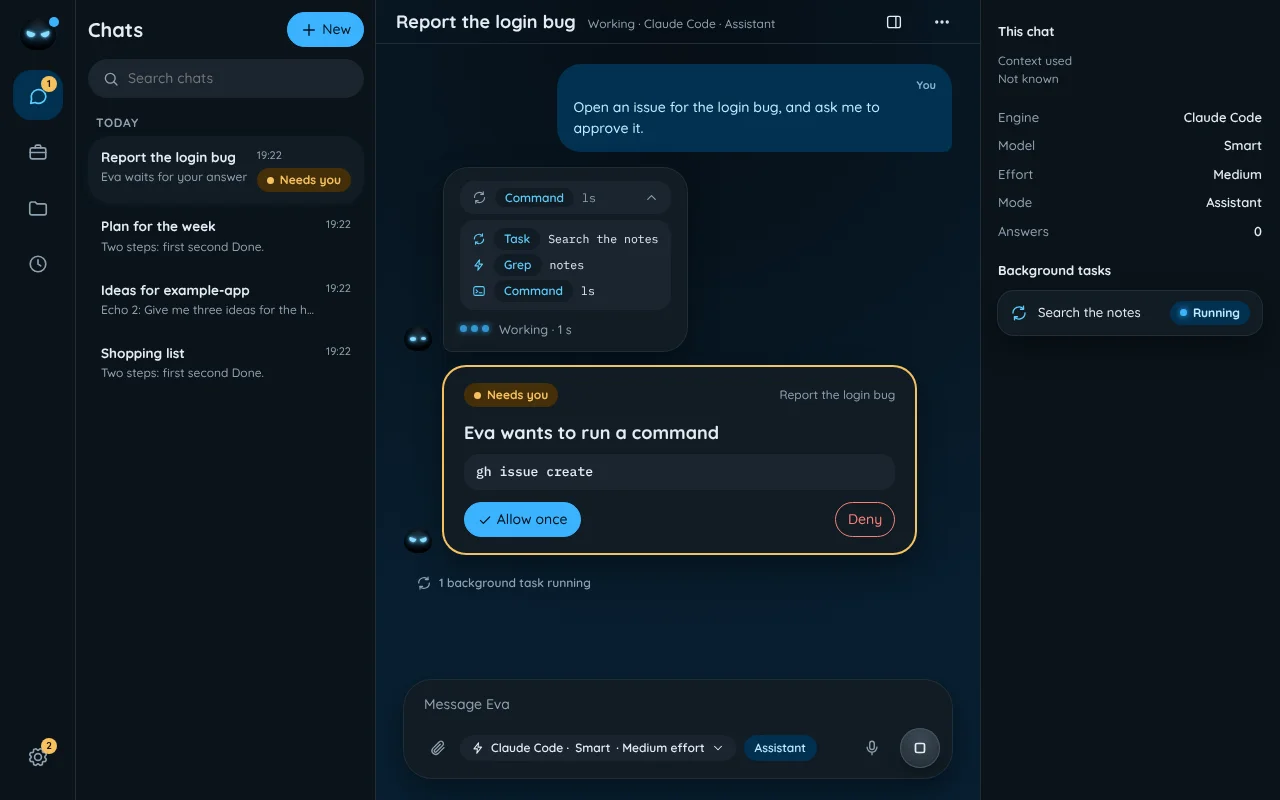
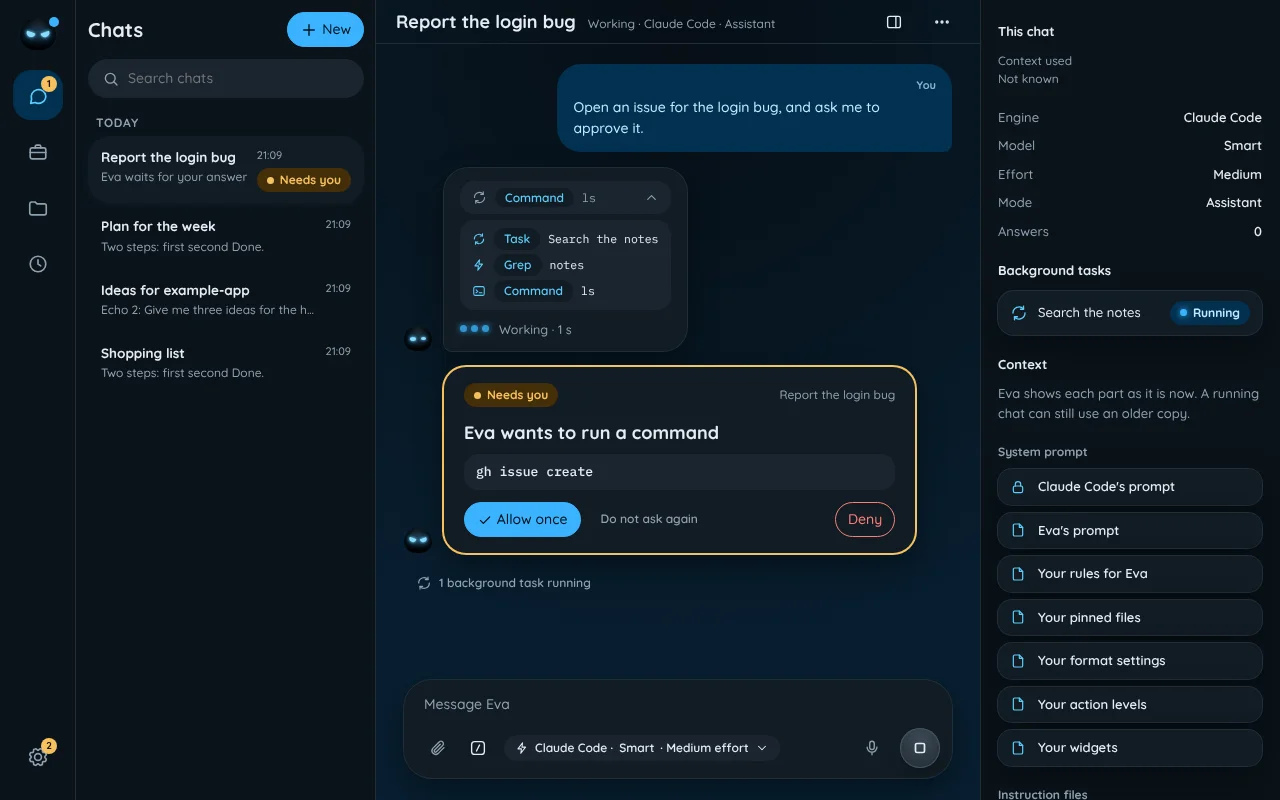
docs: describe the levels of outward actions (#914)
The guide still said that Eva always asks before an action that reaches
other people, and that bypass mode runs every action with no question.
Both are wrong now. The reference describes each kind of action, the
three levels, where they apply and the "Do not ask again" button. It
says that the levels are a preference that lives in the vault, so Eva
asks before an agent changes them. The design guide shows the third
button, with new captures of the permission card.

Claude-Session: https://claude.ai/code/session_011Ysmyf6qxHhKb4kdaM9pKe

diff --git a/docs/guide/reference.md b/docs/guide/reference.md
@@ -62,55 +62,57 @@ Eva keeps her settings in two places, and her tokens in a third:
 - **Your settings live in your vault,** in `.eva/settings/settings.json`, so every computer with the vault uses the same ones.
 - **This computer's settings live in Eva's home folder** (`~/.config/eva-<name>` on Linux, `%APPDATA%\eva-<name>` on Windows, where `<name>` is the name of this Eva), in `config.json`.
   - **The settings that decide who may open Eva, and what an agent may do, are always computer settings.** The table marks them "(security)". Eva's AI agent edits the vault as part of its work, so these never live there.
+  - **The levels of the actions that reach other people are your preference, so they live in the vault.** An agent can edit the vault. So Eva asks you before an agent changes these levels. See [Actions that reach other people](#actions-that-reach-other-people).
 - **Tokens live in `secrets.json`** in Eva's home folder, never in the vault: `githubToken`, `telegramBotToken`, `claudeOauthToken`, `localApiToken`, `googleOauthClientId` and `googleOauthClientSecret`. Eva also keeps there the key of her web push notifications, which she makes by herself.
 
 In the vault:
 
-| Setting                        | Default        | What it does                                                                                                                                         |
-| ------------------------------ | -------------- | ---------------------------------------------------------------------------------------------------------------------------------------------------- |
-| `timeZone`                     | Asked at setup | The time zone of the reminders, and of the time in each message.                                                                                     |
-| `language`                     | Asked at setup | The language of Eva's answers, such as `Spanish`.                                                                                                    |
-| `units`                        | From setup     | `metric` or `imperial`. `null`: not set.                                                                                                             |
-| `clock`                        | From setup     | `24h` or `12h`: the form of each time that Eva writes and shows. `null`: 24-hour.                                                                    |
-| `weekStart`                    | From setup     | The first day of the week, `monday` to `sunday`. `null`: Monday.                                                                                     |
-| `sync.pullIntervalMinutes`     | `5`            | Minutes between two fetches of other computers' notes. `null`: only before each chat turn.                                                           |
-| `sync.sweepSeconds`            | `60`           | Seconds between two saves of changed notes.                                                                                                          |
-| `updates.frequency`            | `daily`        | How often Eva looks for a new version: see [Updates](#updates).                                                                                      |
-| `updates.install`              | `minor`        | What Eva installs by herself: see [Updates](#updates).                                                                                               |
-| `widgets.checkIntervalMinutes` | `30`           | Minutes between two update checks of your own widgets, 5 at least. Other widgets: once a day.                                                        |
-| `engines.default`              | `claude-code`  | The engine of a new chat: `claude-code` or `pi`.                                                                                                     |
-| `engines.defaultModel`         | `opus`         | The model of a new chat: `opus` (Smart), `sonnet` (Balanced) or `haiku` (Fast).                                                                      |
-| `engines.defaultEffort`        | `medium`       | The effort of a new chat: `low`, `medium`, `high`, `xhigh` or `max`.                                                                                 |
-| `engines.pi.models.<model>`    | `null`         | The pi model of each of the 3 tiers, such as `openai/gpt-5`. `null`: pi's own default. In Settings, the field suggests the models of your pi logins. |
-| `google.email`                 | `null`         | The Google account. The Google login sets it.                                                                                                        |
-| `voice.language`               | `null`         | The language of voice notes, such as `es`. `null`: whisper finds it.                                                                                 |
+| Setting                        | Default        | What it does                                                                                                                                                  |
+| ------------------------------ | -------------- | ------------------------------------------------------------------------------------------------------------------------------------------------------------- |
+| `timeZone`                     | Asked at setup | The time zone of the reminders, and of the time in each message.                                                                                              |
+| `language`                     | Asked at setup | The language of Eva's answers, such as `Spanish`.                                                                                                             |
+| `units`                        | From setup     | `metric` or `imperial`. `null`: not set.                                                                                                                      |
+| `clock`                        | From setup     | `24h` or `12h`: the form of each time that Eva writes and shows. `null`: 24-hour.                                                                             |
+| `weekStart`                    | From setup     | The first day of the week, `monday` to `sunday`. `null`: Monday.                                                                                              |
+| `sync.pullIntervalMinutes`     | `5`            | Minutes between two fetches of other computers' notes. `null`: only before each chat turn.                                                                    |
+| `sync.sweepSeconds`            | `60`           | Seconds between two saves of changed notes.                                                                                                                   |
+| `updates.frequency`            | `daily`        | How often Eva looks for a new version: see [Updates](#updates).                                                                                               |
+| `updates.install`              | `minor`        | What Eva installs by herself: see [Updates](#updates).                                                                                                        |
+| `widgets.checkIntervalMinutes` | `30`           | Minutes between two update checks of your own widgets, 5 at least. Other widgets: once a day.                                                                 |
+| `engines.default`              | `claude-code`  | The engine of a new chat: `claude-code` or `pi`.                                                                                                              |
+| `engines.defaultModel`         | `opus`         | The model of a new chat: `opus` (Smart), `sonnet` (Balanced) or `haiku` (Fast).                                                                               |
+| `engines.defaultEffort`        | `medium`       | The effort of a new chat: `low`, `medium`, `high`, `xhigh` or `max`.                                                                                          |
+| `engines.pi.models.<model>`    | `null`         | The pi model of each of the 3 tiers, such as `openai/gpt-5`. `null`: pi's own default. In Settings, the field suggests the models of your pi logins.          |
+| `outwardActions.<category>`    | `ask`          | The level of one kind of action that reaches other people: `allow`, `ask` or `deny`. See [Actions that reach other people](#actions-that-reach-other-people). |
+| `google.email`                 | `null`         | The Google account. The Google login sets it.                                                                                                                 |
+| `voice.language`               | `null`         | The language of voice notes, such as `es`. `null`: whisper finds it.                                                                                          |
 
 On this computer:
 
-| Setting                                              | Default                                    | What it does                                                                                                                                                                                                                                     |
-| ---------------------------------------------------- | ------------------------------------------ | ------------------------------------------------------------------------------------------------------------------------------------------------------------------------------------------------------------------------------------------------ |
-| `vaultPath`                                          | `vault` in Eva's home folder               | The vault folder.                                                                                                                                                                                                                                |
-| `machineName`                                        | The computer's name                        | This computer's name in `.eva/hub.json`.                                                                                                                                                                                                         |
-| `port`                                               | `7420`                                     | The port of the web page on this computer: the number at the end of its local address.                                                                                                                                                           |
-| `projectRoots`                                       | `[]`                                       | More folders of projects, beside `Projects/` in the vault.                                                                                                                                                                                       |
-| `sync.enabled`                                       | `true`                                     | `false` stops the automatic vault sync on this computer, and the status says so. "Sync now" still works.                                                                                                                                         |
-| `engines.claudeCode.executable`                      | `null`                                     | The program that starts Claude Code. `null`: `claude`.                                                                                                                                                                                           |
-| `engines.pi.executable`                              | `null`                                     | The program that starts pi. `null`: `pi`.                                                                                                                                                                                                        |
-| `engines.claudeCode.permissionMode` (security)       | `auto`                                     | How a Claude Code chat asks before an action. `auto`: Claude Code asks only about risky actions. `bypassPermissions`: every action runs with no question, Eva's own approvals too. A repository that Eva does not trust always uses `auto`.      |
-| `telegram.allowedChatId`, `telegram.allowedUserId`   | Set when you pair the chat                 | The Telegram chat, and the person in it who may act.                                                                                                                                                                                             |
-| `git.name`, `git.email`                              | `null`                                     | This Eva's commit name and email. `null`: the GitHub account's, then your git settings.                                                                                                                                                          |
-| `trust.trustedRepositoryOwners` (security)           | `[]`                                       | More GitHub owners whose repositories Eva trusts at once. Their own agent settings then apply. Eva trusts her own GitHub login without it.                                                                                                       |
-| `google.services` (security)                         | `calendar`, `drive`, `contacts`, `tasks`   | The Google services that Eva may use. `gmail` is the fifth choice. Tick them on the Google card.                                                                                                                                                 |
-| `google.access.<service>` (security)                 | `readonly`                                 | The access level of each service. Calendar, Drive and Contacts take `readonly` or `full`. Tasks also takes `manage`, which cannot delete. Gmail takes `readonly`, `organize`, `drafts`, `send` or `full`. Log in to Google again after a change. |
-| `voice.modelPath`                                    | `voice/ggml-base.bin` in Eva's home folder | The whisper.cpp model. Voice notes stay off without it.                                                                                                                                                                                          |
-| `voice.vadModelPath`                                 | `null`                                     | A whisper.cpp model that finds the silence, so that whisper skips it.                                                                                                                                                                            |
-| `voice.whisperExecutable`                            | `whisper-cli`                              | The whisper.cpp program.                                                                                                                                                                                                                         |
-| `voice.ffmpegExecutable`                             | `ffmpeg`                                   | The ffmpeg program.                                                                                                                                                                                                                              |
-| `remoteAccess.tailscaleServe`                        | `true`                                     | Publishes the web page to your Tailscale devices at start.                                                                                                                                                                                       |
-| `remoteAccess.allowedTailscaleIdentities` (security) | `[]`                                       | The Tailscale accounts that may ask for a device login. `[]`: only the owner of this computer.                                                                                                                                                   |
-| `remoteAccess.hostNames`                             | `[]`                                       | More host names that reach the web page, beside `127.0.0.1` and the Tailscale name.                                                                                                                                                              |
+| Setting                                              | Default                                    | What it does                                                                                                                                                                                                                                                                                                                             |
+| ---------------------------------------------------- | ------------------------------------------ | ---------------------------------------------------------------------------------------------------------------------------------------------------------------------------------------------------------------------------------------------------------------------------------------------------------------------------------------- |
+| `vaultPath`                                          | `vault` in Eva's home folder               | The vault folder.                                                                                                                                                                                                                                                                                                                        |
+| `machineName`                                        | The computer's name                        | This computer's name in `.eva/hub.json`.                                                                                                                                                                                                                                                                                                 |
+| `port`                                               | `7420`                                     | The port of the web page on this computer: the number at the end of its local address.                                                                                                                                                                                                                                                   |
+| `projectRoots`                                       | `[]`                                       | More folders of projects, beside `Projects/` in the vault.                                                                                                                                                                                                                                                                               |
+| `sync.enabled`                                       | `true`                                     | `false` stops the automatic vault sync on this computer, and the status says so. "Sync now" still works.                                                                                                                                                                                                                                 |
+| `engines.claudeCode.executable`                      | `null`                                     | The program that starts Claude Code. `null`: `claude`.                                                                                                                                                                                                                                                                                   |
+| `engines.pi.executable`                              | `null`                                     | The program that starts pi. `null`: `pi`.                                                                                                                                                                                                                                                                                                |
+| `engines.claudeCode.permissionMode` (security)       | `auto`                                     | How a Claude Code chat asks before an action. `auto`: Claude Code asks only about risky actions. `bypassPermissions`: Claude Code skips its own checks, so most actions run with no question. The levels of the actions that reach other people still apply in Assistant chats. A repository that Eva does not trust always uses `auto`. |
+| `telegram.allowedChatId`, `telegram.allowedUserId`   | Set when you pair the chat                 | The Telegram chat, and the person in it who may act.                                                                                                                                                                                                                                                                                     |
+| `git.name`, `git.email`                              | `null`                                     | This Eva's commit name and email. `null`: the GitHub account's, then your git settings.                                                                                                                                                                                                                                                  |
+| `trust.trustedRepositoryOwners` (security)           | `[]`                                       | More GitHub owners whose repositories Eva trusts at once. Their own agent settings then apply. Eva trusts her own GitHub login without it.                                                                                                                                                                                               |
+| `google.services` (security)                         | `calendar`, `drive`, `contacts`, `tasks`   | The Google services that Eva may use. `gmail` is the fifth choice. Tick them on the Google card.                                                                                                                                                                                                                                         |
+| `google.access.<service>` (security)                 | `readonly`                                 | The access level of each service. Calendar, Drive and Contacts take `readonly` or `full`. Tasks also takes `manage`, which cannot delete. Gmail takes `readonly`, `organize`, `drafts`, `send` or `full`. Log in to Google again after a change.                                                                                         |
+| `voice.modelPath`                                    | `voice/ggml-base.bin` in Eva's home folder | The whisper.cpp model. Voice notes stay off without it.                                                                                                                                                                                                                                                                                  |
+| `voice.vadModelPath`                                 | `null`                                     | A whisper.cpp model that finds the silence, so that whisper skips it.                                                                                                                                                                                                                                                                    |
+| `voice.whisperExecutable`                            | `whisper-cli`                              | The whisper.cpp program.                                                                                                                                                                                                                                                                                                                 |
+| `voice.ffmpegExecutable`                             | `ffmpeg`                                   | The ffmpeg program.                                                                                                                                                                                                                                                                                                                      |
+| `remoteAccess.tailscaleServe`                        | `true`                                     | Publishes the web page to your Tailscale devices at start.                                                                                                                                                                                                                                                                               |
+| `remoteAccess.allowedTailscaleIdentities` (security) | `[]`                                       | The Tailscale accounts that may ask for a device login. `[]`: only the owner of this computer.                                                                                                                                                                                                                                           |
+| `remoteAccess.hostNames`                             | `[]`                                       | More host names that reach the web page, beside `127.0.0.1` and the Tailscale name.                                                                                                                                                                                                                                                      |
 
-Change a setting on the web Settings page, or with `eva settings set`. The update frequency, the update policy, the vault fetch, the widget check interval, the trusted repository owners and the formats (`language`, `units`, `clock` and `weekStart`) apply at once: a new chat and the web page use them. Any other change applies at the next restart.
+Change a setting on the web Settings page, or with `eva settings set`. The update frequency, the update policy, the vault fetch, the widget check interval, the levels of the actions that reach other people, the trusted repository owners and the formats (`language`, `units`, `clock` and `weekStart`) apply at once: a new chat and the web page use them. Any other change applies at the next restart.
 
 - **Tokens:** log in to GitHub and Claude Code on the Settings page, or paste their tokens there. Paste the Telegram token there too. The page never shows a saved token again. Press **Test** to check it. Then press **Restart Eva**, so that chats and the vault sync use it too. A card with a done login shows a green panel. Its **Log out** button removes the login, after a warning. Its **Log in again** button shows the steps again. A paired Telegram bot shows **Disconnect** and **Set up again** instead.
 - **Test buttons:** each one makes a small, real check. The engine Test sends one tiny prompt, so it uses a little of your subscription.
@@ -367,6 +369,31 @@ A request from Eva's own computer can come from any program there, so only the t
 
 - **Trusted repositories:** a project chat uses the project's own agent settings and tools (the hooks, settings and MCP servers of its clone) only when Eva trusts every repository in it. Eva trusts the repositories of the GitHub account that she logs in with. She also trusts the owners in `trust.trustedRepositoryOwners`. She asks about any other repository once, and keeps your answer. **Settings > Trusted repositories** lists the trusted accounts and the saved answers. Add or remove one there. A change applies to the next project chat.
 - **What Eva may do:** **Settings > AI engines > What Eva may do** lists, for each engine and each kind of chat, what runs with no question, what Eva asks you first and what never runs. See also [What a chat can reach](#what-a-chat-can-reach). It also lists your own Claude Code `allow`, `ask` and `deny` rules apart, with the file that holds them: the `settings.json` in this Eva's Claude Code folder, and `.claude/settings.json` in your vault.
+- **Actions that reach other people:** **Settings > AI engines > Actions that reach other people** gives each kind of action one level: Allow, Ask or Deny. See [Actions that reach other people](#actions-that-reach-other-people).
+
+### Actions that reach other people
+
+Some actions reach other people, or change what Eva does later. Each action has a level:
+
+| Kind of action                   | What it covers                                                                                    |
+| -------------------------------- | ------------------------------------------------------------------------------------------------- |
+| Push code                        | `git push`.                                                                                       |
+| GitHub: issues and pull requests | Create, comment on, edit, close or merge an issue, pull request, release or gist with `gh`.       |
+| Share a Google Drive file        | Change who can open a file in Google Drive.                                                       |
+| Send an email                    | Send a message with Gmail.                                                                        |
+| Calendar invitations             | A calendar event with guests or updates, and an answer to an invitation.                          |
+| Send data over the network       | `curl` or `gh api` with data, with a file upload or with a request method other than GET or HEAD. |
+| Change the schedules             | A change to `.eva/schedules.json`, also a shell command that names that file.                     |
+
+- **Allow:** the action runs with no question.
+- **Ask:** Eva asks you first. This is the default.
+- **Deny:** the action never runs. Eva tells the AI that you chose this, and that it must not try another way.
+- **A preference, not a security wall.** The levels live in your vault, in the setting `outwardActions`. An agent can edit the vault. So Eva asks you before an agent changes the levels. This one question has no level and no "Do not ask again".
+- **Where they apply.** The levels apply in Assistant chats, in every permission mode, also in Bypass permissions. A Project chat is a clean wrapper around its harness, so it keeps the rules of that harness.
+- **When a change applies.** A change applies from the next action, also in a chat that is open.
+- **A call with several kinds.** A command such as `git push && curl -d @file` has two kinds. The strictest level wins: Deny, then Ask, then Allow.
+- **Your own MCP servers.** Eva gives levels only to her own Google tools. The tools of an MCP server that you added follow the rules of Claude Code, not these levels.
+- **Do not ask again.** A permission card of a request with a kind of action has a third button, **Do not ask again**, in the web app and in Telegram. Eva asks you to confirm. The question names each kind of the request. After you confirm, Eva allows the request and sets each of its kinds to Allow. To undo it, set the level to Ask in **Settings > AI engines > Actions that reach other people**.
 
 ## Pinned files
 
@@ -399,7 +426,7 @@ A chat with Eva has no wall.
 - It reads and changes every file of your user: the vault, your other folders and Eva's own folder.
 - It runs any program that your user can run. It reaches any website.
 - It cannot do the work of an administrator, unless `sudo` asks your user for no password.
-- Two things stop a risky action. In Auto mode, Claude Code's safety check refuses some actions. Eva also asks you first before some actions, such as a push or a message to other people. **Settings > AI engines > What Eva may do** lists them.
+- Two things stop a risky action. In Auto mode, Claude Code's safety check refuses some actions. Eva also follows your level for each action that reaches other people, such as a push or a sent email. Each level is Allow, Ask or Deny. **Settings > AI engines > What Eva may do** lists them. See [Actions that reach other people](#actions-that-reach-other-people).
 
 The Assistant needs the whole vault and the `eva` command. So Eva puts no wall around it.
 
@@ -512,7 +539,7 @@ Some commands work differently in the sandbox:
 
 Each feature stays off until you set it up. `eva doctor` shows which tools are missing.
 
-- **Reminders and repeated tasks.** Ask Eva for a reminder or a daily summary, or open **Schedules** in the web app. A schedule runs at a time on some days of the week, every few hours, days or weeks from a first run, or once at a date and time. Eva keeps them in `.eva/schedules.json` in the vault, and only the hub runs them. When a chat adds or changes a schedule, Eva asks you first.
+- **Reminders and repeated tasks.** Ask Eva for a reminder or a daily summary, or open **Schedules** in the web app. A schedule runs at a time on some days of the week, every few hours, days or weeks from a first run, or once at a date and time. Eva keeps them in `.eva/schedules.json` in the vault, and only the hub runs them. When a chat adds or changes a schedule, Eva asks you first. You can set another level in **Settings > AI engines > Actions that reach other people**.
   - A new or changed schedule runs at its next time. A change to a time that just passed waits for the next one.
   - A schedule sends a text, sends a vault file, or runs a prompt. A prompt starts a new chat, named after the schedule, and can pick a model.
   - The Schedules page works like Projects. The list shows each schedule, when it repeats and how its last run went. On a computer, today's runs show beside the list. On a phone, they show above it.
@@ -571,6 +598,6 @@ Eva reaches your Google account through your own OAuth client: an id and a secre
 4. **Log in to Google.** The Google tools run with [uv](https://docs.astral.sh/uv/), which `eva setup` installs. In **Settings**, paste the client id and secret, and press **Start the Google login**. On Google's page, press **Advanced** and go to the app, because Google did not verify it. Press **Allow**. Your browser then shows an error page, such as "This site can't be reached". This is correct. Copy the whole address from the address bar into Settings, and press **Finish**.
 5. **Test it.** Press **Test Google**. It reads each service, or names the step to fix. Then press **Restart Eva**, so that chats use Google. To end the login, press **Log out** on the Google card. The OAuth client stays, so a new login needs no new setup.
 
-`eva doctor` shows whether the login still works. Eva starts with read-only access. To let her change things, such as add events, press **Log in again** on the Google card. Then pick a step in **Google access**: "Keep my lists", "Change and draft" or "Everything". Pick "Custom" to set the level of each service. Then log in to Google again. She asks you before any change that reaches other people, such as an invitation. The Google tools work with Claude Code and with pi.
+`eva doctor` shows whether the login still works. Eva starts with read-only access. To let her change things, such as add events, press **Log in again** on the Google card. Then pick a step in **Google access**: "Keep my lists", "Change and draft" or "Everything". Pick "Custom" to set the level of each service. Then log in to Google again. For a sent mail, a shared file and an invitation, she follows your levels in **Settings > AI engines > Actions that reach other people**. The Google tools work with Claude Code and with pi.
 
 To add a service, such as Gmail, press **Log in again** on the Google card. In step 1, tick the service. Then turn on its API, such as the [Gmail API](https://console.cloud.google.com/apis/library/gmail.googleapis.com), in the same project. Your OAuth client stays the same. Pick its level in **Google access**, and log in to Google again. To let Eva send mail, pick "Read, sort, write drafts and send" or a higher level.

diff --git a/docs/design/eve/README.md b/docs/design/eve/README.md
@@ -195,7 +195,7 @@ All of them are in `reference.html`. The class names there are short; pick clear
 | Skeleton          | (none)                                               | A wait for content that fills a large area. `--line` shapes with a `--chip` shimmer, and the radii of the content to come: list items, bubbles, cards and facts. The code calls it `.skeleton`.                                                                                                                                                                                                                                                                                                                           |
 | Composer          | `.cmp`, `.box`                                       | Attach, engine and model chip, microphone, send or stop. The engine chip picks the engine, the model and the effort. Once a chat has a turn, only the effort changes.                                                                                                                                                                                                                                                                                                                                                     |
 | Context ring      | `.ring`                                              | A conic gradient that shows the share of context in use.                                                                                                                                                                                                                                                                                                                                                                                                                                                                  |
-| Permission card   | in the approval page                                 | Amber border, a "Needs you" pill, the chat that asks, a title, the exact command, and two buttons: Allow once and Deny. A card with the model's questions shows each question with its options and an own-answer field, and two buttons: Send answers and Skip.                                                                                                                                                                                                                                                           |
+| Permission card   | in the approval page                                 | Amber border, a "Needs you" pill, the chat that asks, a title, the exact command, and two buttons: Allow once and Deny. A request that names an action category adds a ghost button, Do not ask again, between them. It opens a dialog that asks the person to confirm. A card with the model's questions shows each question with its options and an own-answer field, and two buttons: Send answers and Skip.                                                                                                           |
 | Dialog and sheet  | `.scrim`, `.dlg`, `.sheet`                           |                                                                                                                                                                                                                                                                                                                                                                                                                                                                                                                           |
 | Toast             | `.toast`                                             | Inverted (`--ink` fill, `--bg` text), at the bottom, with text and up to two small buttons. A ring around the close button empties, then the toast closes. The code calls the part `Toast`.                                                                                                                                                                                                                                                                                                                               |
 | Tooltip           | (none)                                               | A short hint over an element. Inverted, as the toast is. It shows above the element, or below when the top has no room. An element can ask for the right side with `data-tooltip-side="right"`, as the nav rail does. On a phone, a long press shows it, unless the element has a context menu. A hint of several lines shows its first line in bold, as a title. `data-tooltip-target` on a part of the element points the hint at that part. The code calls it `.tooltip`; an element asks for one with `data-tooltip`. |
@@ -295,7 +295,7 @@ Each page has a computer and a phone capture, in light and dark. The light captu
 
 - The permission card is in the chat that asks, with an amber border.
 - It shows the exact command.
-- Two buttons: allow once, or deny.
+- Two buttons: allow once, or deny. When the request names an action category, a third button, "Do not ask again", sits between them. It opens a dialog that names each action, links to its level in Settings and asks the person to confirm.
 - The chat list shows a "Needs you" pill, and the nav rail a count badge.
 - A request from a chat that is not on screen shows as a notice line that opens that chat.
 

diff --git a/docs/guide/how-eva-works.md b/docs/guide/how-eva-works.md
@@ -134,7 +134,7 @@ Two or more computers can run Eva with the same vault. The vault names the hub i
 ## Safety
 
 - **Remote access only through Tailscale.** The local API listens on the computer itself. Tailscale gives the address to your devices only.
-- **Settings have homes.** Your personal settings live in the vault. The settings of the computer, and each security setting, stay in `config.json`. An agent can edit the vault, so Eva never reads a security setting from it.
+- **Settings have homes.** Your personal settings live in the vault. The settings of the computer, and each security setting, stay in `config.json`. An agent can edit the vault, so Eva never reads a security setting from it. The levels of the actions that reach other people are a preference, so they live in the vault. An agent can edit them, so Eva asks you before an agent changes them.
 - **Secrets never reach a front end.** The `Redactor` removes each known secret, and each common token shape, from the text of each event and log line.
 - **The file wall.** A Project chat cannot open the vault, the other projects or Eva's folder. On Linux and macOS, a sandbox also walls the shell of the chat, when the computer can run it. See [What a chat can reach](reference.md#what-a-chat-can-reach).
 - **Trust of a clone.** A clone of an unknown repository runs with its hooks, project settings and MCP servers off, until you trust it.
